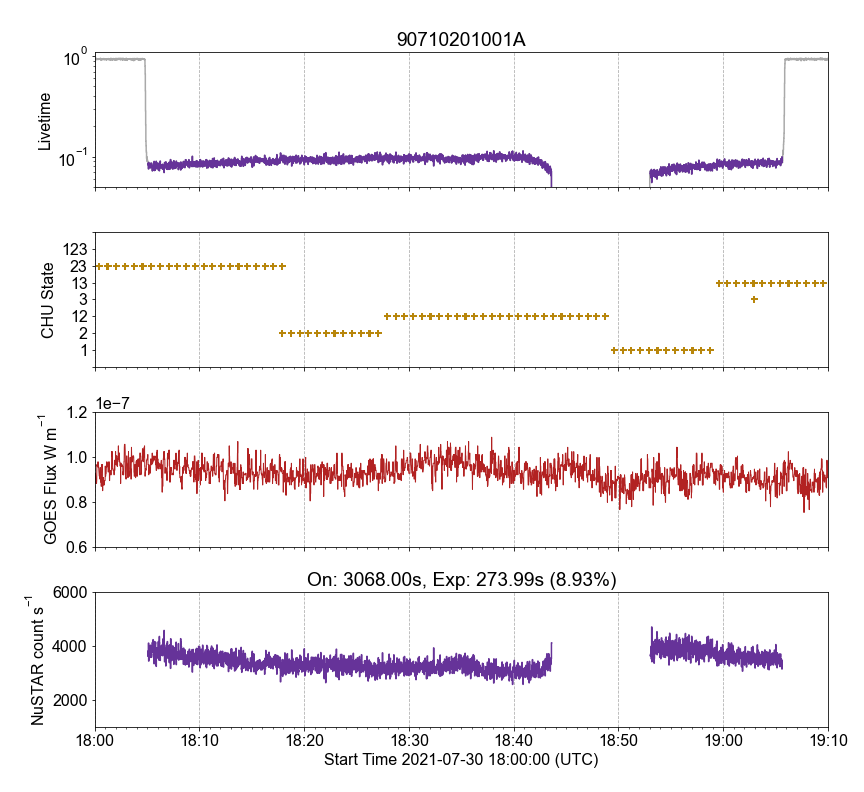
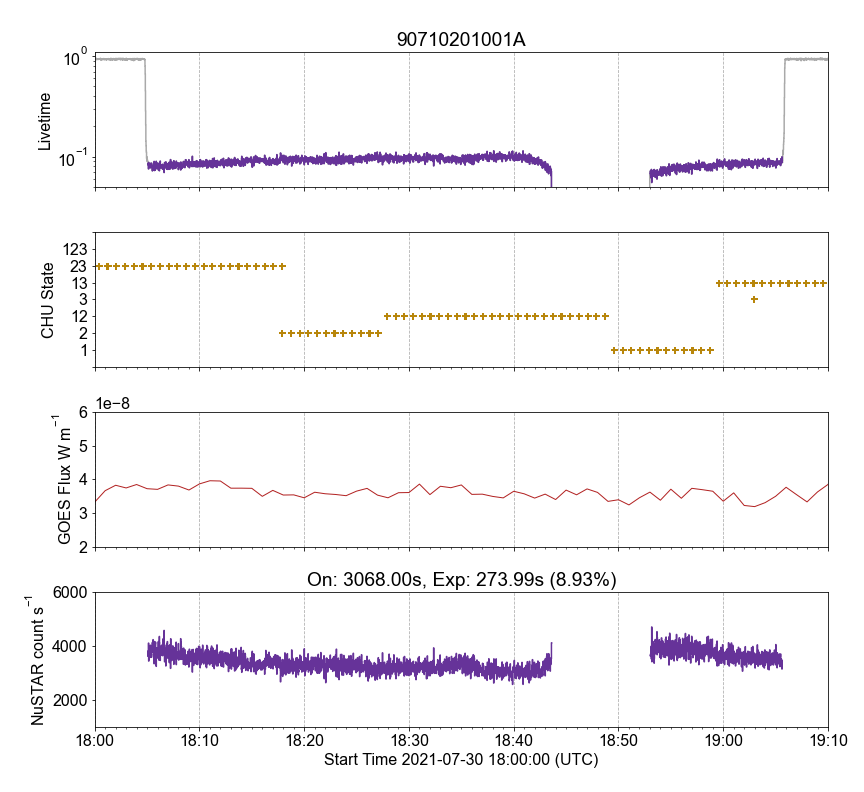
update py jul code

Changed region(s): [[0.0312, 0.5152, 0.9688, 0.697], [0.125, 0.4848, 0.1562, 0.5152]]

diff --git a/py_summ/ns_summ.py b/py_summ/ns_summ.py
@@ -3,6 +3,7 @@
 # Work in progress and missing comments/documentation
 # 
 # 15-Aug-2021 IGH
+# 24-Jun-2022 IGH - Updated to use better avg1m XRS (need to supply filename)
 
 from astropy.io import fits
 import astropy.time as atime
@@ -412,7 +413,7 @@ def plot_ltc_chu_nsid(maindir,nsid,fpm,\
 
 def plot_ltc_chu_ges_nsid(maindir,nsid,fpm,\
                           lvyr=[5e-4,1.1],cryr=[8e3,8e5],crscl='log',\
-                          gsyr=[1e-8,1e-6],gsscl='linear',gsmfs=5,\
+                          gsyr=[1e-8,1e-6],gsscl='linear',gsmfs=5,gsfile='',\
                           outdir='figs/',wide=False,tmaj=10,tmin=2,timer=0):
     """
     Summary lightcurves of a NuSTAR Solar pointing
@@ -506,23 +507,29 @@ def plot_ltc_chu_ges_nsid(maindir,nsid,fpm,\
     
 # ~~~~~~~~~~~~~~~~~~~~~~~~~~~~~~~~~~~~~
 # Get the GOES/XRS stuff
-    ges_res = Fido.search(a.Time(mint,maxt),a.Instrument("XRS"),a.goes.SatelliteNumber(16))
-    file_ges = Fido.fetch(ges_res,progress=False)
-    goesd = ts.TimeSeries(file_ges)
+    if gsfile =='':
+        ges_res = Fido.search(a.Time(mint,maxt),a.Instrument("XRS"),a.goes.SatelliteNumber(16))
+        file_ges = Fido.fetch(ges_res,progress=False)
+    else:
+        file_ges=gsfile
+
+    goesd = ts.TimeSeries(file_ges,concatenate=True)
     
 #   This is loading in a full day file and if covering more than one day then 2 list entry, so
-    if hasattr(goesd, "__len__"):
-        gestims=np.concatenate((goesd[0].index,goesd[1].index))
-        gesb=np.concatenate((goesd[0].quantity("xrsb").value,goesd[1].quantity("xrsb").value))
-        sortid=np.argsort(gestims)
-        gestims=gestims[sortid]
-        gesb=gesb[sortid]
-    else:
-        gestims=goesd.index
-        gesb=goesd.quantity("xrsb").value
+    # if hasattr(goesd, "__len__"):
+    #     gestims=np.concatenate((goesd[0].index,goesd[1].index))
+    #     gesb=np.concatenate((goesd[0].quantity("xrsb").value,goesd[1].quantity("xrsb").value))
+    #     sortid=np.argsort(gestims)
+    #     gestims=gestims[sortid]
+    #     gesb=gesb[sortid]
+    # else:
+    gestims=goesd.index
+    gesb=goesd.quantity("xrsb").value
         
 #   Do a median filter over gsmfs sec on GOES data to remove dodgy spikes (due to instrumental things?)
-    gesb=ndimage.median_filter(gesb, size=gsmfs)
+# Only need with 1s data
+    if gsfile =='':
+        gesb=ndimage.median_filter(gesb, size=gsmfs)
 
 # ~~~~~~~~~~~~~~~~~~~~~~~~~~~~~~~~~~~~~
     plt.rcParams.update({'font.size': 16,'font.family':"sans-serif",\
